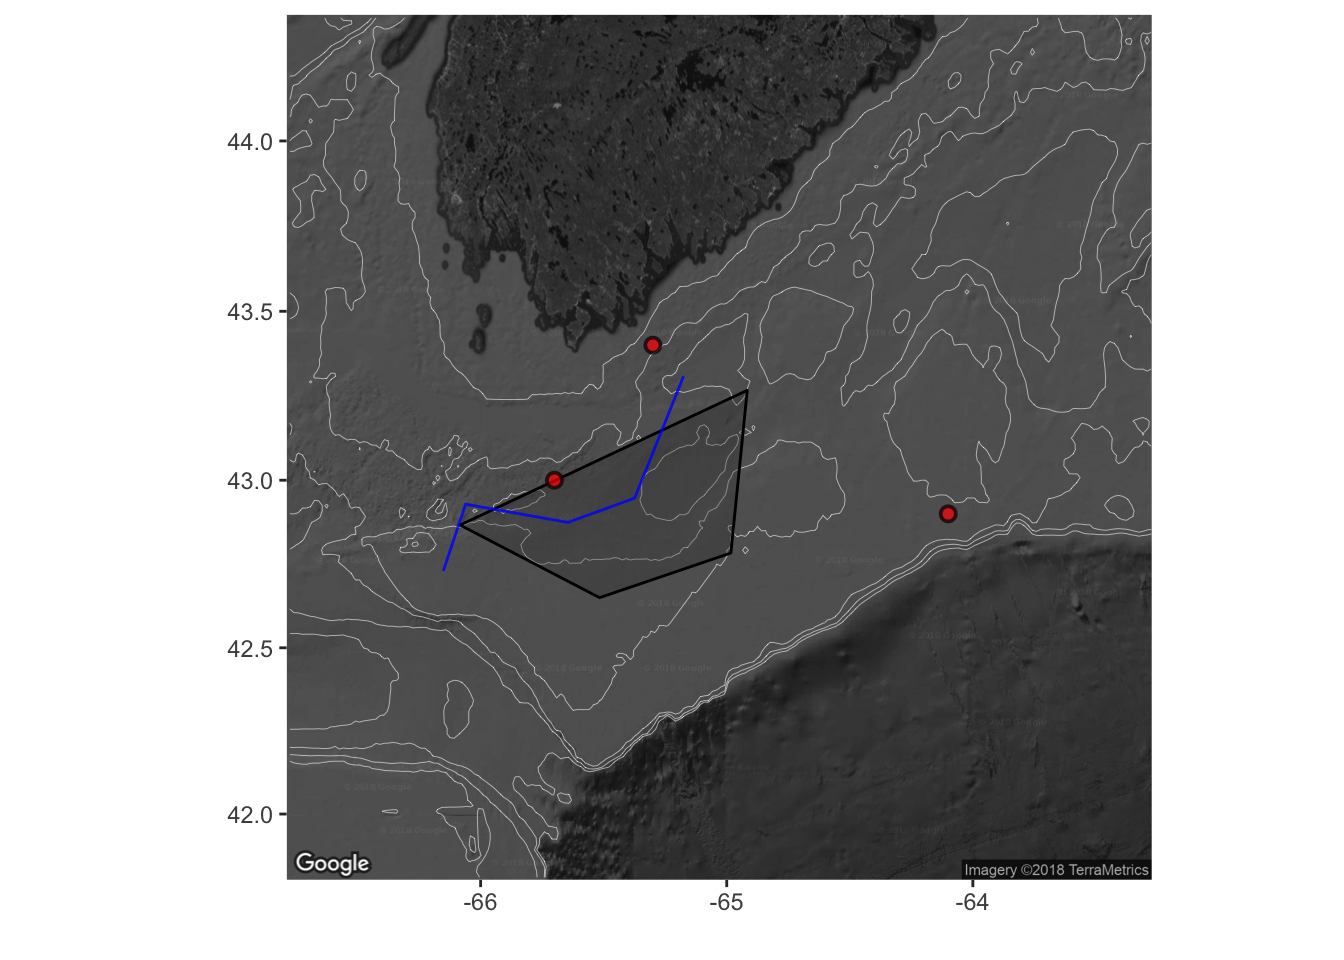
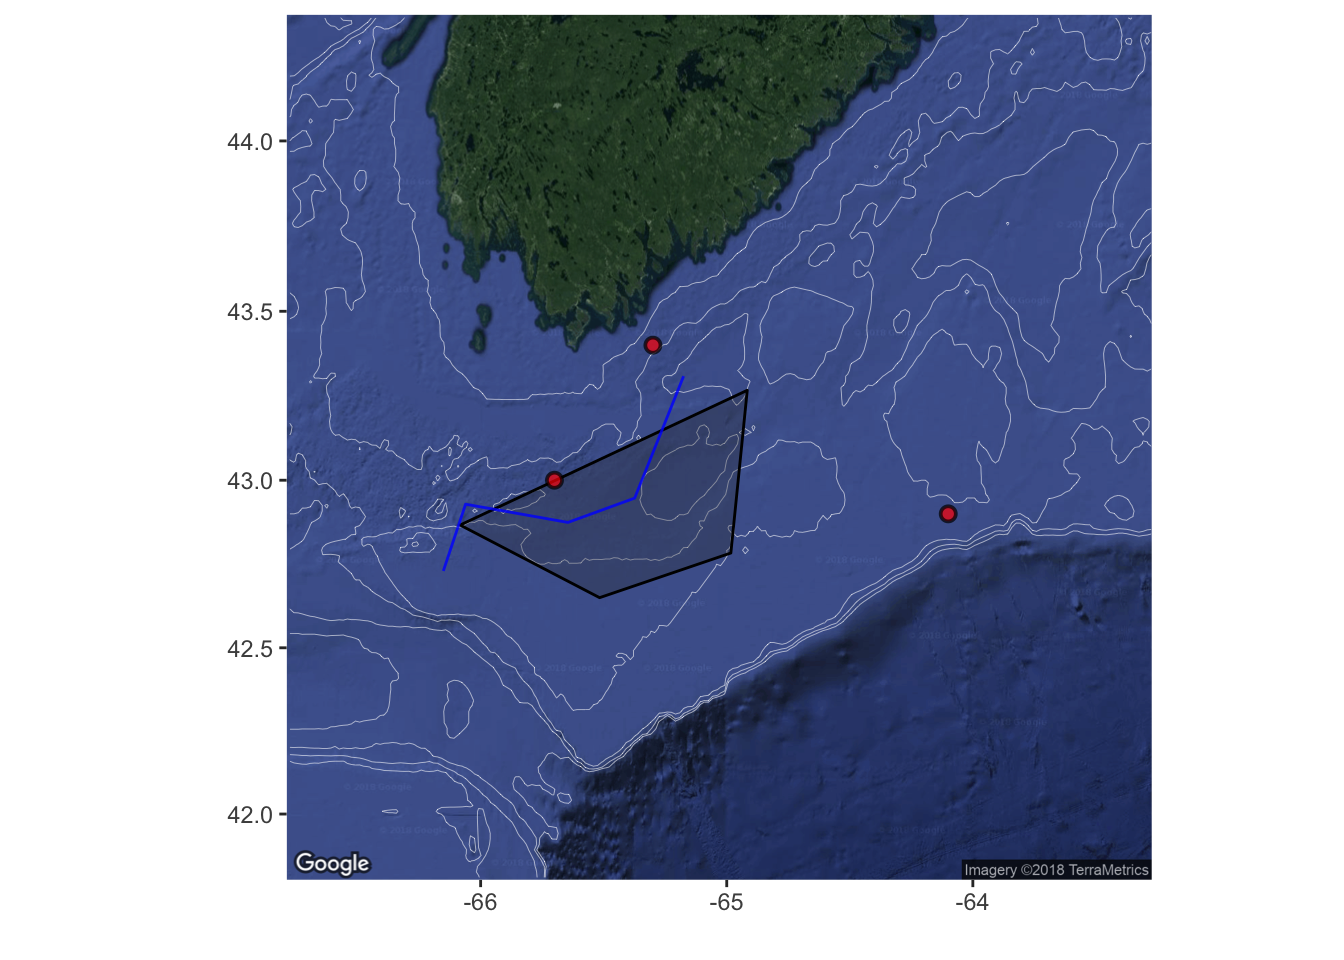
use color image for satellite

diff --git a/content/post/2018-03-09-bathymetric-maps-in-r.html b/content/post/2018-03-09-bathymetric-maps-in-r.html
@@ -108,7 +108,7 @@ library(ggplot2)
 ll_mean = c(mean(pts$lon), mean(pts$lat))
 
 # get raster background map data
-ggm = get_map(location = ll_mean,  maptype = &quot;satellite&quot;, source = &quot;google&quot;, zoom = 8, color = &#39;bw&#39;)
+ggm = get_map(location = ll_mean,  maptype = &quot;satellite&quot;, source = &quot;google&quot;, zoom = 8)
 
 # convert bathymetry to data frame
 bf = fortify.bathy(b)
@@ -126,7 +126,7 @@ gg = ggmap(ggm) +
 # show map
 gg</code></pre>
 <p><img src="/post/2018-03-09-bathymetric-maps-in-r_files/figure-html/ggmap-1.png" width="672" /></p>
-<p>I think this map looks beautiful. I particularly like how easily it allows me to overlay data on greyscale satellite imagery from Google. This is a relatively new discovery for me, and is something that I’ll likely start using more often.</p>
+<p>I think this map looks beautiful. I particularly like how easily it allows me to overlay data on satellite imagery from Google. This is a relatively new discovery for me, and is something that I’ll likely start using more often.</p>
 <p>My biggest issue is that I haven’t been able to find an elegent way to add labels to the contour lines in a <code>ggmap</code> / <code>ggplot2</code> framework. There are ways to do this in <code>ggplot2</code> (like with the <code>direct.label</code> package), but these fail with projected data used in <code>ggmap</code>. Perhaps I’ll file an issue with the developers soon to see if they can shed any light.</p>
 </div>
 <div id="summary" class="section level2">
